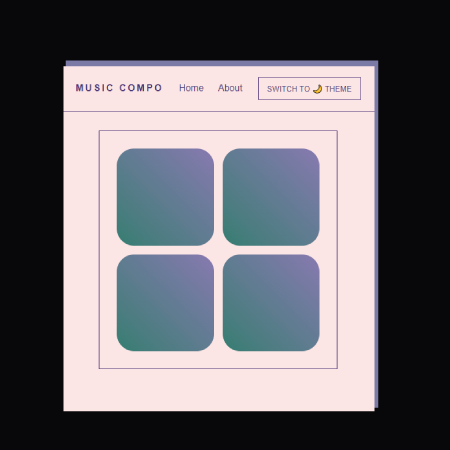
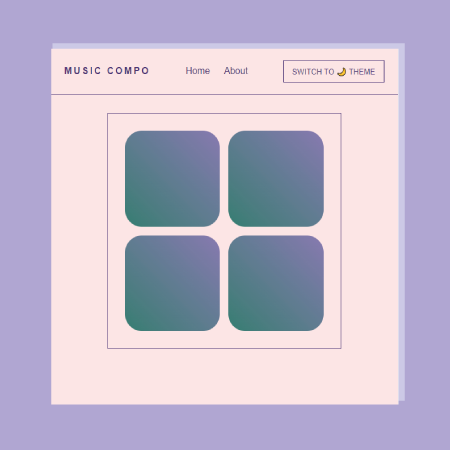
rework content portfolio

diff --git a/src/components/Home/Portfolio/Content.jsx b/src/components/Home/Portfolio/Content.jsx
@@ -77,7 +77,7 @@ const Content = [
   {
     id: 8, 
     image: Work8, 
-    title : "Music Composer using Tone.js",
+    title : "WebApp Music Composer using Tone.js",
     describe: "My first personal learning project. Creation of a controller interface prototype using the Tone.js library for music composition.",
     keywords: "Hooks • Styled-Components • ToneJS",
     category: "Programming",

diff --git a/src/components/Home/Portfolio/Portfolio.module.css b/src/components/Home/Portfolio/Portfolio.module.css
@@ -16,7 +16,7 @@
   margin-top: 2.2rem; 
 
   
-  @media (max-width: 600px) {
+  @media (max-width: 786px) {
     margin-top: 0.6rem; 
     flex-direction: column;
     align-items: flex-start;
@@ -38,8 +38,6 @@
 
   @media (max-width: 600px) {
     gap: 1.5rem;
-    justify-content: center;
-    align-items: center;
   }
 
   @media (min-width: 601px) and (max-width: 1637px) {
